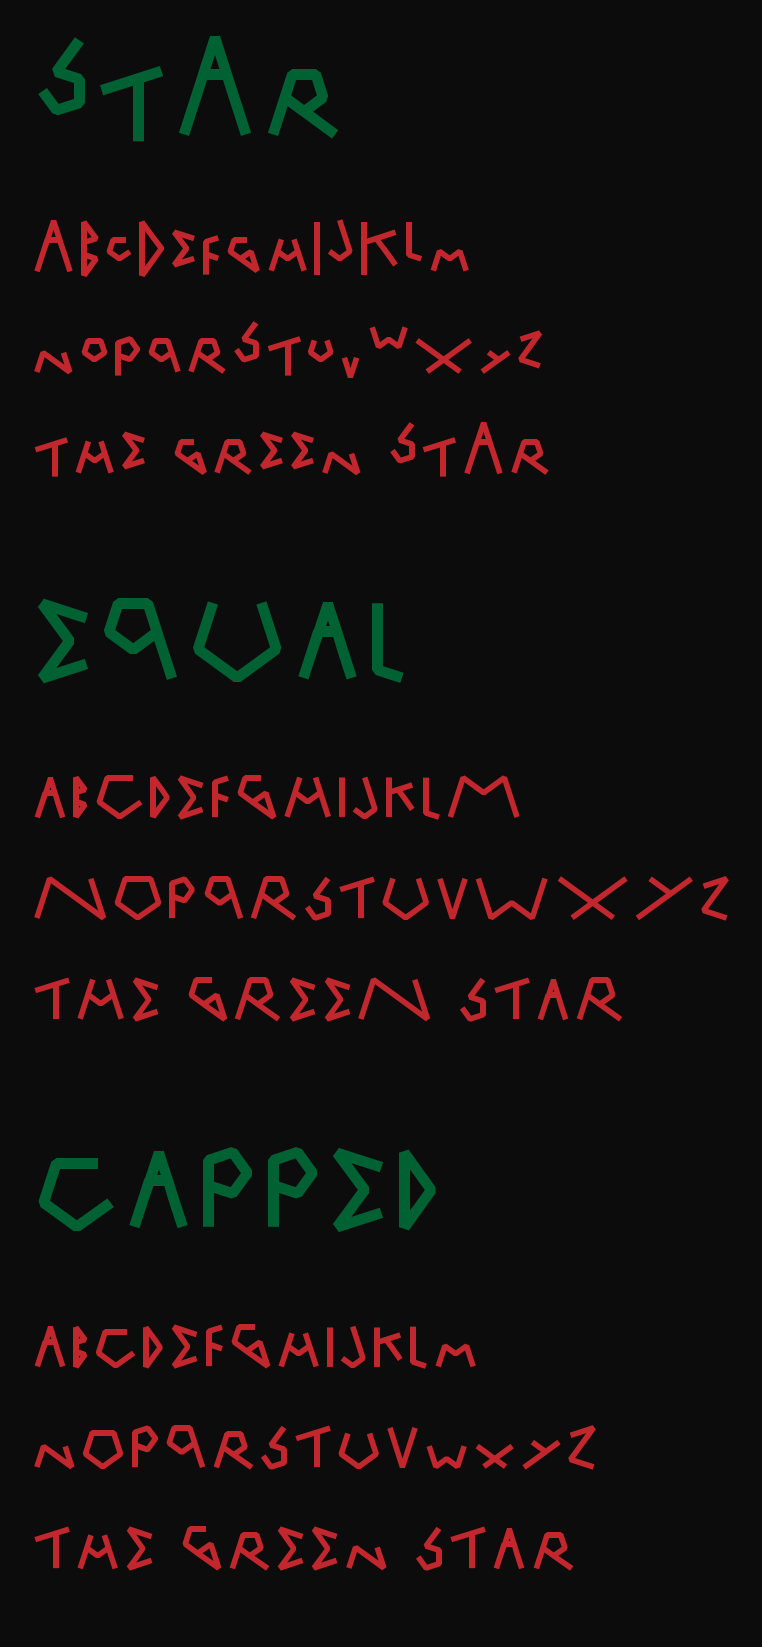
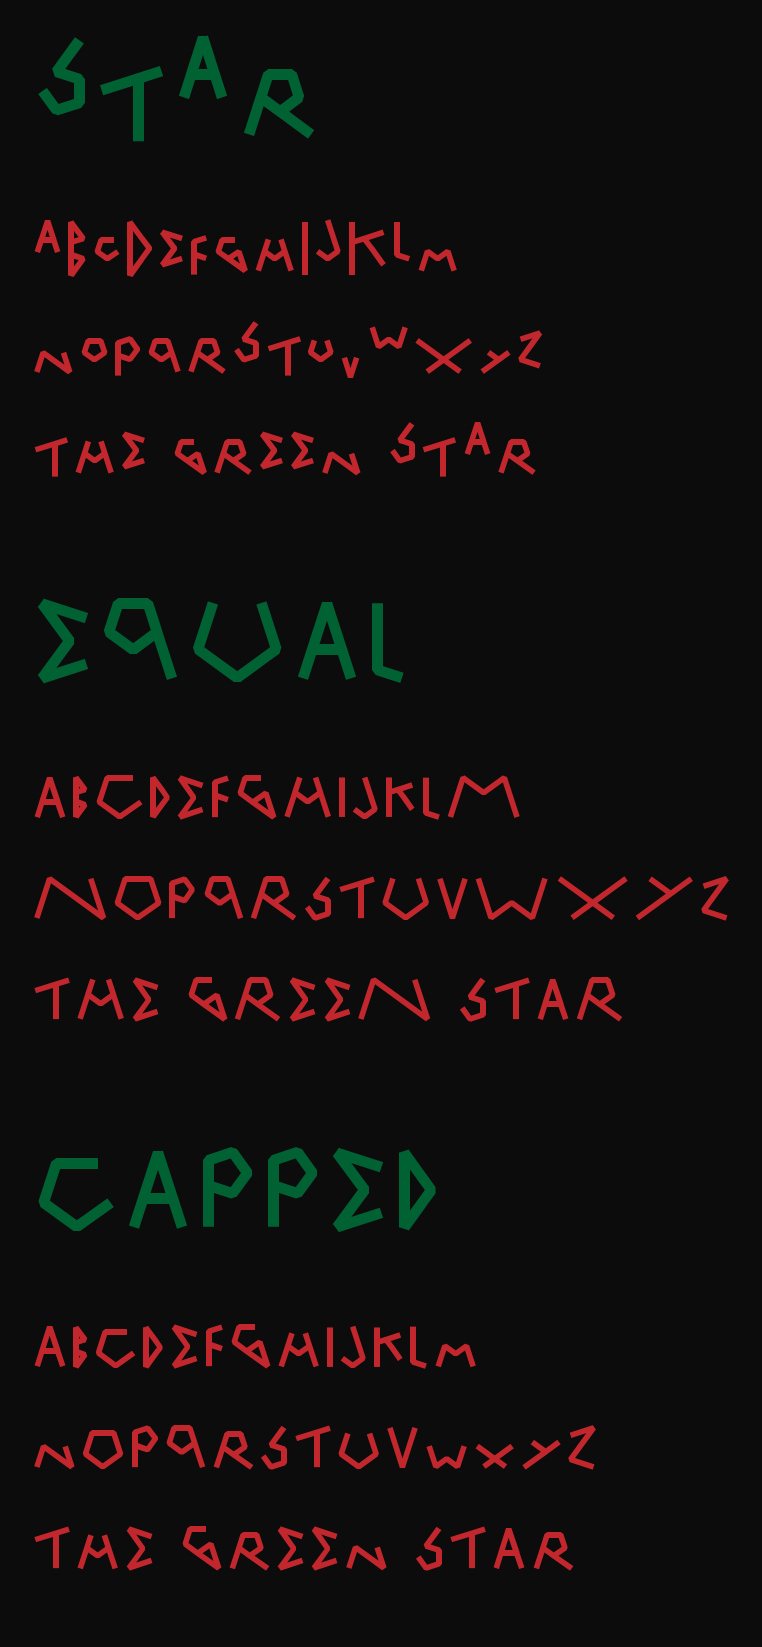
Better A

diff --git a/star_alphabet.py b/star_alphabet.py
@@ -9,7 +9,7 @@ import math
 
 # letter: (segments, rotation_deg). Empty list = no candidate yet.
 LETTERS = {
-    "A": ([6, 5, 13, 7, 2, 10, 1], 0),
+    "A": ([5, 6, 1, 7, 2], 0),
     "B": ([13, 5, 6, 7, 1, 4, 12], 18),
     "C": ([1, 5, 4, 3], 0),
     "D": ([1, 15, 8, 9, 3, 4, 14], 90),
